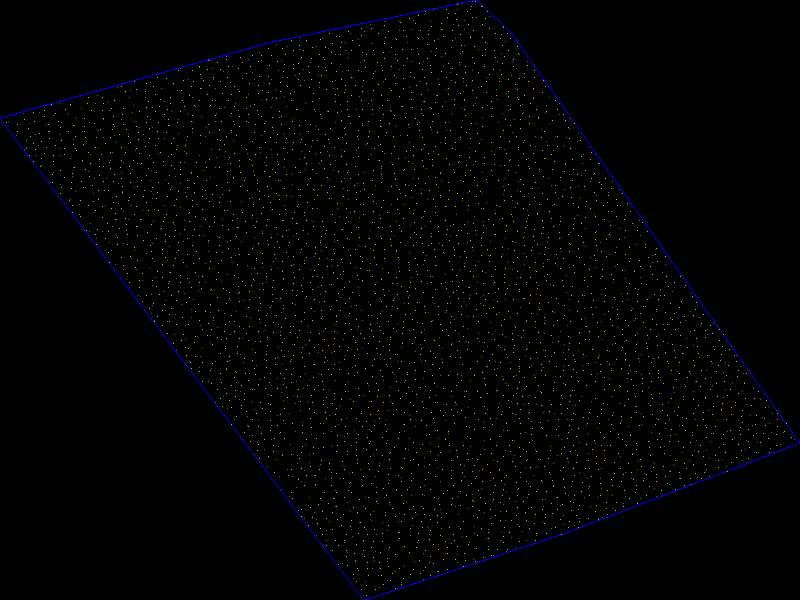
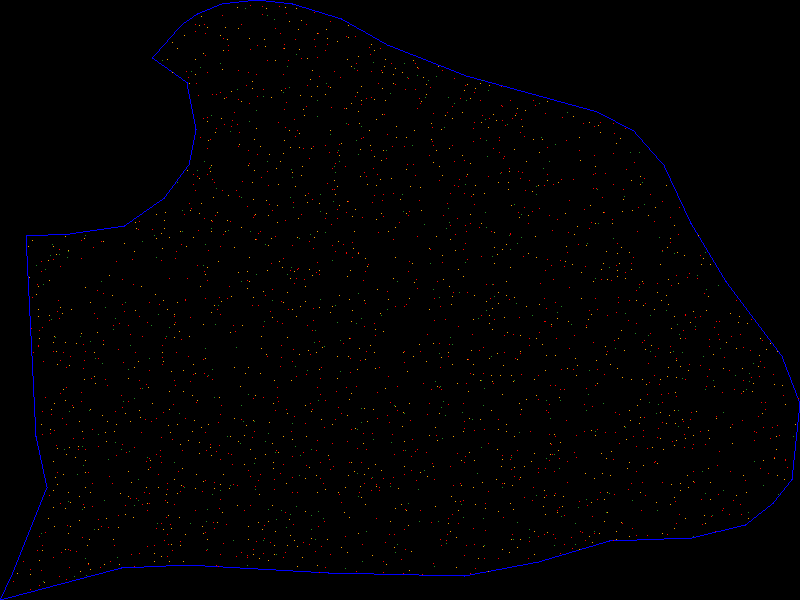
bounding box from map

diff --git a/src/main.rs b/src/main.rs
@@ -1,9 +1,10 @@
 mod forest_property;
 mod geometry_utils;
 
-use forest_property::compartment::{find_stands_in_bounding_box, get_compartments_in_bounding_box};
+use forest_property::compartment::{clip_polygon_to_bounding_box, clip_trees_to_bounding_box, find_stands_in_bounding_box, get_compartments_in_bounding_box};
 use forest_property::forest_property_data::ForestPropertyData;
 use forest_property::image_processor::ImageProcessor;
+use geo::Coord;
 use geo_types::coord;
 use geometry_utils::generate_random_trees;
 use image::Rgb;
@@ -160,16 +161,54 @@ fn test_find_stands_in_bounding_box() {
     }
 }
 
-/*
+/* 
 /* TESTING TREE GENERATION FOR STANDS IN BOUNDING BOX */
+// TODO: Fix drawing the compartment polygons and trees so that they don't overlap
 fn main() {
     let property = ForestPropertyData::from_xml_file("forestpropertydata.xml");
     let real_estate = property.real_estates.real_estate[0].clone();
     let stands = real_estate.get_stands();
 
-    // Find compartments in the bounding box
-    let compartments = get_compartments_in_bounding_box(stands, 0.0, 427700.0, 0.0, 7370000.0);
+    // Define the bounding box
+    let min_x = 0.0;
+    let max_x = 427900.0;
+    let min_y = 0.0;
+    let max_y = 7370000.0;
 
-    // TODO: Draw the compartments inside the bounding box to an image
+    // Create an image processor with the desired image dimensions
+    let img_width = 1000; // For example
+    let img_height = 1000; // For example
+    let mut image = ImageProcessor::new(img_width, img_height);
+
+    // Find compartments in the bounding box
+    let compartments = get_compartments_in_bounding_box(stands, min_x, max_x, min_y, max_y);
+
+    for compartment in compartments {
+        let multi_polygon = match clip_polygon_to_bounding_box(&compartment.polygon, min_x, max_x, min_y, max_y) {
+            Some(polygon) => polygon,
+            None => continue,
+        };
+        let trees = clip_trees_to_bounding_box(&compartment.trees, min_x, max_x, min_y, max_y);
+
+        // MultiPolygon always contains one Polygon because we are clipping to a bounding box
+        let polygon = multi_polygon.0.first().unwrap();
+
+        // Draw the polygon
+        let mapped_coordinates = image.map_coordinates_to_image(polygon);
+        image.draw_polygon_image(&mapped_coordinates);
+
+        // Draw the trees
+        for tree in trees {
+            let point = coord! {x: tree.position().0, y: tree.position().1};
+            let color = get_color_by_species(tree.species());
+            image.draw_random_point(&polygon, img_width, img_height, point, color);
+        }
+    }
+
+    image
+        .img()
+        .save("clipped_image.png")
+        .expect("Failed to save image");
+    println!("Polygon image saved as 'clipped_image.png'");
 }
 */

diff --git a/src/forest_property/compartment.rs b/src/forest_property/compartment.rs
@@ -1,11 +1,13 @@
+use std::ops::Mul;
+
 use crate::forest_property::tree::Tree;
 use crate::geometry_utils::generate_random_trees;
+use super::stand::Stand;
 
-use geo::{Coord, LineString, Polygon};
+use geo::{Coord, LineString, MultiPolygon, Polygon};
 use geo::Intersects;
 use geo::line_string;
-
-use super::stand::Stand;
+use geo_clipper::Clipper;
 
 // Struct that represents a stand of trees
 pub struct Compartment {
@@ -113,4 +115,39 @@ pub fn get_compartments_in_bounding_box(all_stands: Vec<&Stand>, min_x: f64, max
         }
     }
     compartments
+}
+
+// Helper function to clip polygon to bounding box
+pub fn clip_polygon_to_bounding_box(polygon: &Polygon<f64>, min_x: f64, max_x: f64, min_y: f64, max_y: f64) -> Option<MultiPolygon<f64>> {
+    let bbox = Polygon::new(
+        LineString(vec![
+            Coord { x: min_x, y: min_y },
+            Coord { x: max_x, y: min_y },
+            Coord { x: max_x, y: max_y },
+            Coord { x: min_x, y: max_y },
+            Coord { x: min_x, y: min_y },
+        ]),
+        vec![]
+    );
+
+    let clipped = polygon.intersection(&bbox, 1.0);
+
+    if clipped.0.is_empty() {
+        None
+    } else {
+        Some(clipped)
+    }
+}
+
+pub fn clip_trees_to_bounding_box(trees: &Vec<Tree>, min_x: f64, max_x: f64, min_y: f64, max_y: f64) -> Vec<Tree> {
+    let mut clipped_trees = Vec::new();
+
+    for tree in trees {
+        let (x, y, _) = tree.position();
+        if x >= min_x && x <= max_x && y >= min_y && y <= max_y {
+            clipped_trees.push(tree.clone());
+        }
+    }
+
+    clipped_trees
 }
